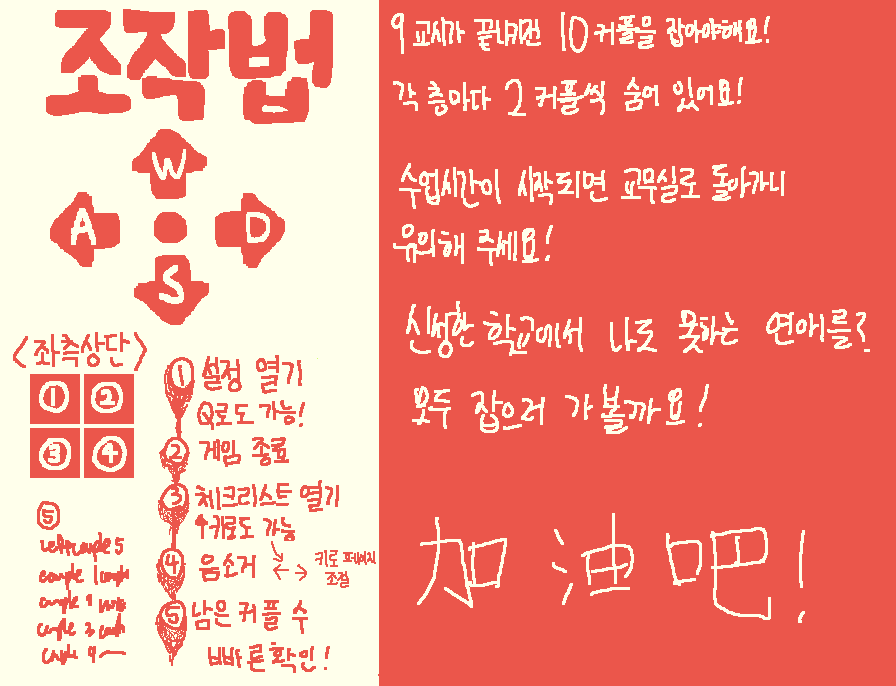
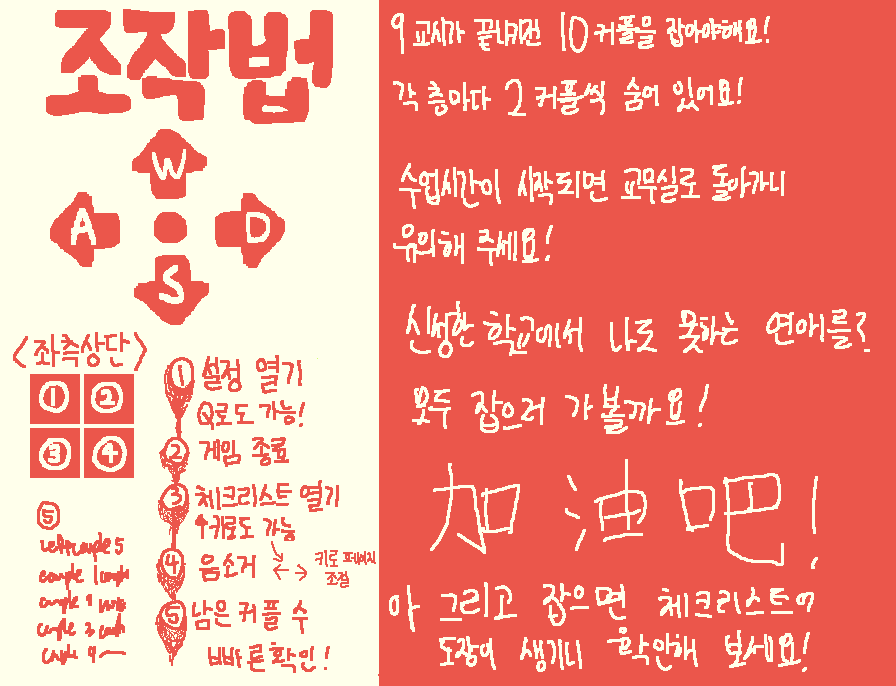
점심 쉬는 시간에 따른 다른 텍스트, 시작 마다 오피스 귀환

Changed region(s): [[0.4375, 0.6735, 0.9062, 0.9796], [0.9062, 0.7041, 0.9375, 0.7653]]

diff --git a/노다가 중/main.py b/노다가 중/main.py
@@ -186,7 +186,12 @@ class Game: # 메인 게임 실행 클래스
             self.tilemap = maps.world_1.stage_5
         
         self.createTilemap(self.tilemap)
-        
+    
+    def go_back_to_office(self): # 쉬는 시간 끝나면 다시 교무실로
+        self.stage = 1
+        self.tilemap = maps.world_1.stage_1
+        self.createTilemap(self.tilemap)
+
     # 커플이 잡혔는지 확인
     def couplecaught(self):
         if self.stage == 1:
@@ -360,11 +365,19 @@ class Game: # 메인 게임 실행 클래스
         if self.drawcountdown:
             rect_width = 1050
             rect_height = 50
-            rect_color = (230, 20, 232, 8)  # Semi-transparent black color
-            pygame.draw.rect(self.screen, rect_color, (190, 0, rect_width, rect_height))
-            timer_text = f"{self.period} Period Break Time / Time left : {self.remaining_time // 60:02}:{self.remaining_time % 60:02}"
-            timer_surface = self.timer_font.render(timer_text, True, (255, 235, 2))
-            self.screen.blit(timer_surface, (400, -10))  # 필요에 따라 위치 조정
+            # 점심 시간 쉬는 시간 구분을 위해서
+            if self.period == 4:
+                rect_color = (230, 20, 232, 8)
+                pygame.draw.rect(self.screen, rect_color, (190, 0, rect_width, rect_height))
+                timer_text = f"Lunch Time / Time left : {self.remaining_time // 60:02}:{self.remaining_time % 60:02}"
+                timer_surface = self.timer_font.render(timer_text, True, (255, 235, 2))
+                self.screen.blit(timer_surface, (400, -10))  # 필요에 따라 위치 조정
+            else:
+                rect_color = (230, 20, 232, 8)
+                pygame.draw.rect(self.screen, rect_color, (190, 0, rect_width, rect_height))
+                timer_text = f"{self.period} Period Break Time / Time left : {self.remaining_time // 60:02}:{self.remaining_time % 60:02}"
+                timer_surface = self.timer_font.render(timer_text, True, (255, 235, 2))
+                self.screen.blit(timer_surface, (400, -10))  # 필요에 따라 위치 조정
 
             floor_text = f"Floor {self.stage}"
             floor_surface = self.timer_font.render(floor_text, True, (255, 235, 2))
@@ -523,6 +536,7 @@ class Game: # 메인 게임 실행 클래스
                             self.period += 1
                             self.show_classtime_page = True
                             self.class_end_sound.play()
+                            self.go_back_to_office()
                             
 
                         elif self.period == 9:
@@ -535,6 +549,7 @@ class Game: # 메인 게임 실행 클래스
                             self.period += 1
                             self.show_classtime_page = True
                             self.class_end_sound.play()
+                            self.go_back_to_office()
                             
                             # 여기다 그릴 것
             self.draw()

diff --git a/원본 저장/sprites.py b/원본 저장/sprites.py
@@ -23,8 +23,8 @@ class Wooden(pygame.sprite.Sprite):
         self.groups = self.game.all_sprites
         pygame.sprite.Sprite.__init__(self, self.groups)
 
-        self.x = x * tilesize - 500 # 여기에 값 넣으면 맵 움직일 수 있음. 그렇다면 여기에 +변수 를 하면 변수 값이 변하는거에 따라 할 수 있지 않을까... 
-        self.y = y * tilesize # 그리고 변수 수정 된 걸로 그리는 거는 맵이 새로 그려졌을 떄만 되도록
+        self.x = x * tilesize
+        self.y = y * tilesize
         self.width, self.height = tilesize, tilesize
         self.image = self.game.wooden_spritesheet.get_sprite(0, 0, self.width, self.height)
         self.rect = self.image.get_rect()

diff --git a/원본 저장/player.py b/원본 저장/player.py
@@ -51,8 +51,6 @@ class Player(pygame.sprite.Sprite):
                 sprite.rect.y -= player_speed
             self.y_change += player_speed
             self.facing = "down"
-        print(self.rect.x)
-        
 
     def update(self):
         self.movement()
@@ -72,6 +70,8 @@ class Player(pygame.sprite.Sprite):
         self.collide_warp_up("y")
         self.collide_warp_down("y")
         self.collide_couple("y")
+
+        
 
         self.x_change = 0
         self.y_change = 0
@@ -186,4 +186,3 @@ class Player(pygame.sprite.Sprite):
 
     def animate(self):
         Player_animation_animate(self)
-        

diff --git a/원본 저장/maps.py b/원본 저장/maps.py
@@ -7,7 +7,7 @@ class world_1:
         "000000000000000T........T000000000000000",
         "000000000000000T........T000000000000000",
         "000000000000000T....P...T000000000000000",
-        "0000000000000000000000000000000000000000",
+        "000000000000000T........T000000000000000",
         "000000000000000T........T000000000000000",
         "000000000000000T........T000000000000000",
         "000000000000000T........T000000000000000",

diff --git a/원본 저장/map_build.py b/원본 저장/map_build.py
@@ -3,7 +3,7 @@ from sprites import *
 
 def build_map(self, tilemap):
     for i, row in enumerate(tilemap):
-        for j, column in enumerate(row): # 또는 여기 값
+        for j, column in enumerate(row):
             Wooden(self, j, i)
             if column == "P":
                 self.Player = Player(self, j, i)

diff --git a/노다가 중/player.py b/노다가 중/player.py
@@ -71,6 +71,8 @@ class Player(pygame.sprite.Sprite):
         self.collide_warp_down("y")
         self.collide_couple("y")
 
+        
+
         self.x_change = 0
         self.y_change = 0
 
